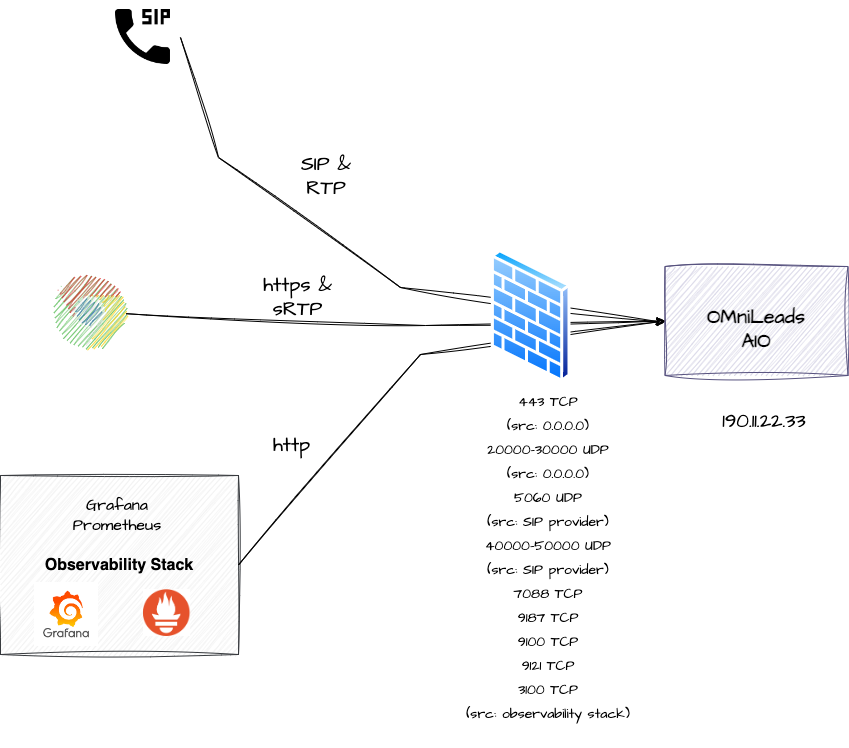
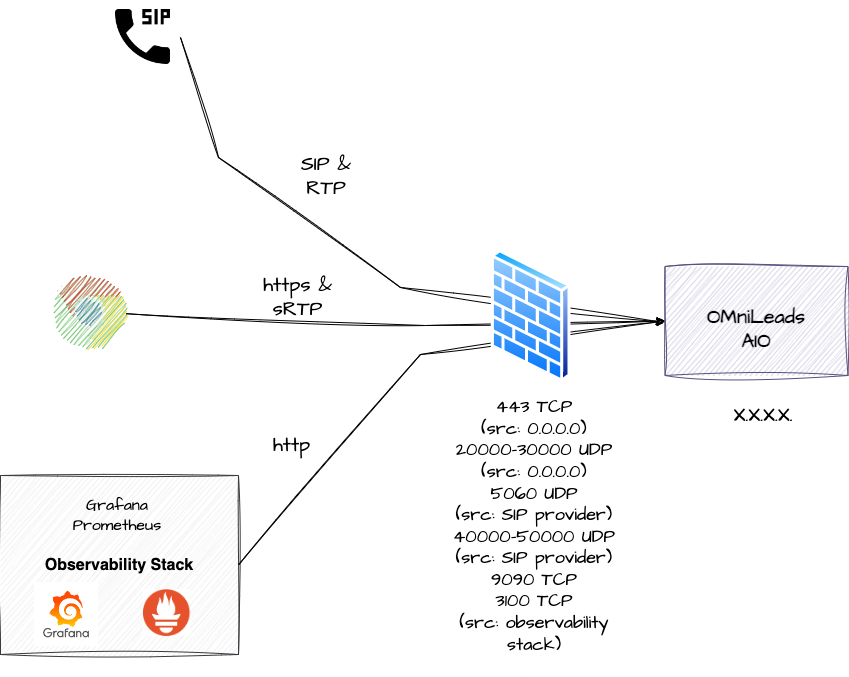
compose cloud ansible & manual

diff --git a/docker-compose/README.md b/docker-compose/README.md
@@ -1,6 +1,6 @@
 #### This project is part of OMniLeads
 
-![Diagrama deploy tool](../systemd/png/omnileads_logo_1.png)
+![Diagrama deploy tool](../ansible/png/omnileads_logo_1.png)
 
 #### 100% Open-Source Contact Center Software
 #### [Community Forum](https://forum.omnileads.net/)
@@ -11,10 +11,11 @@
 * [Requirements](#requirements)
 * [Docker Desktop](#docker_desktop)
 * [Cloud VPS or Onpremise VM](#vps_vm)
+* [Security](#security)
 * [First login](#post_install)
 * [Simulate calls](#pstn_emulator)
 * [Predictive dialer](#wombat_dialer)
-* [Security](#security)
+
 
 
 You need docker installed (on Linux, Mac or Windows) and this reposotory cloned <a name="requirements"></a>
@@ -46,8 +47,34 @@ You don't need to work with the variables file, you can simply proceed with the 
 $ docker-compose up -d 
 ```
 
-![Diagrama deploy tool](../systemd/png/deploy-tool-tenant-compose-localhost.png)
+![Diagrama deploy tool](../ansible/png/deploy-tool-tenant-compose-localhost.png)
 
+# Security  <a name="security"></a>
+
+OMniLeads is an application that combines Web (https), WebRTC (wss & sRTP) and VoIP (SIP & RTP) technologies. This implies a certain complexity and 
+when deploying it in production under an Internet exposure scenario. 
+
+On the Web side of the things the ideal is to implement a Reverse Proxy or Load Balancer ahead of OMnileads, i.e. exposed to the Internet (TCP 443) 
+and that it forwards the requests to the Nginx of the OMniLeads stack. On the VoIP side, when connecting to the PSTN via VoIP it is ideal to 
+operate behind an SBC (Session Border Controller) exposed to the Internet.
+
+However, we can intelligently use the **Cloud Firewall** technology when operating over VPS exposed to the Internet.
+
+![Diagrama security](../ansible/png/security.png)
+
+Below are the Firewall rules to be applied on All In One instance:
+
+* 443/TCP Nginx: This is where Web/WebRTC requests to Nginx are processed. Port 443 can be opened to the entire Internet.
+
+* 40000-50000/UDP: WebRTC sRTP RTPengine: this port range can be opened to the entire Internet.
+
+* 5060/UDP Asterisk: This is where SIP requests for incoming calls from the ITSP(s) are processed. This port must be opened by restricting by origin on the IP(s) of the PSTN SIP termination provider(s).
+
+* 20000-30000/UDP VoIP RTP Asterisk: this port range must be opened by restricting by origin on the IP(s) of the PSTN SIP termination provider(s).
+
+* 9090/TCP Prometheus (optional, only if you are going to monitor with grafana and prometheus): This is where the connections coming from the monitoring center, more precisely from Prometheus Master, are processed. This port can be opened by restricting by origin in the IP of the monitoring center.
+
+* 3100/TCP Loki (optional, only if you are going to centralize container logs with grafana and loki): this is where the connections coming from the monitoring center are processed, more precisely from Grafana, are processed. This port can be opened by restricting by origin on the IP of the monitoring center.
 
 ### **Onpremise Virtual Machine or Cloud VPS** <a name="vps_vm"></a>
 
@@ -101,7 +128,7 @@ Now, let's proceed to launch the stack:
 $ docker-compose -f docker-compose_aio.yml up -d
 ```
 
-![Diagrama deploy tool](../systemd/png/deploy-tool-tenant-compose-vps.png)
+![Diagrama deploy tool](../ansible/png/deploy-tool-tenant-compose-vps.png)
 
 ### **Onpremise Virtual Machine and VPS Cloud deploy with external bucket**
 
@@ -130,7 +157,7 @@ Now, let's proceed to launch the stack:
 $ docker-compose -f docker-compose_aio_ext_bucket.yml up -d
 ```
 
-![Diagrama deploy tool](../systemd/png/deploy-tool-tenant-compose-vps-external.png)
+![Diagrama deploy tool](../ansible/png/deploy-tool-tenant-compose-vps-external.png)
 
 ## Log in to the Admin UI <a name="post_install"></a>
 
@@ -224,31 +251,4 @@ The other scenarios do not implement Wombat Dialer by default, so if you want to
 Check our official documentation to check this: https://documentacion-omnileads.readthedocs.io/es/stable/maintance.html#configuracion-del-modulo-de-discador-predictivo
 
 Note: when configuring initial mariadb credentials the root pass is ***admin123***, then on the AMI connection, the server address is ***acd***.
-
-# Security  <a name="security"></a>
-
-OMniLeads is an application that combines Web (https), WebRTC (wss & sRTP) and VoIP (SIP & RTP) technologies. This implies a certain complexity and 
-when deploying it in production under an Internet exposure scenario. 
-
-On the Web side of the things the ideal is to implement a Reverse Proxy or Load Balancer ahead of OMnileads, i.e. exposed to the Internet (TCP 443) 
-and that it forwards the requests to the Nginx of the OMniLeads stack. On the VoIP side, when connecting to the PSTN via VoIP it is ideal to 
-operate behind an SBC (Session Border Controller) exposed to the Internet.
-
-However, we can intelligently use the **Cloud Firewall** technology when operating over VPS exposed to the Internet.
-
-![Diagrama security](../systemd/png/security.png)
-
-Below are the Firewall rules to be applied on All In One instance:
-
-* 443/TCP Nginx: This is where Web/WebRTC requests to Nginx are processed. Port 443 can be opened to the entire Internet.
-
-* 40000-50000/UDP: WebRTC sRTP RTPengine: this port range can be opened to the entire Internet.
-
-* 5060/UDP Asterisk: This is where SIP requests for incoming calls from the ITSP(s) are processed. This port must be opened by restricting by origin on the IP(s) of the PSTN SIP termination provider(s).
-
-* 20000-30000/UDP VoIP RTP Asterisk: this port range must be opened by restricting by origin on the IP(s) of the PSTN SIP termination provider(s).
-
-* 9090/TCP Prometheus: This is where the connections coming from the monitoring center, more precisely from Prometheus Master, are processed. This port can be opened by restricting by origin in the IP of the monitoring center.
-
-* 3100/TCP Loki: this is where the connections coming from the monitoring center are processed, more precisely from Grafana, are processed. This port can be opened by restricting by origin on the IP of the monitoring center.
 
